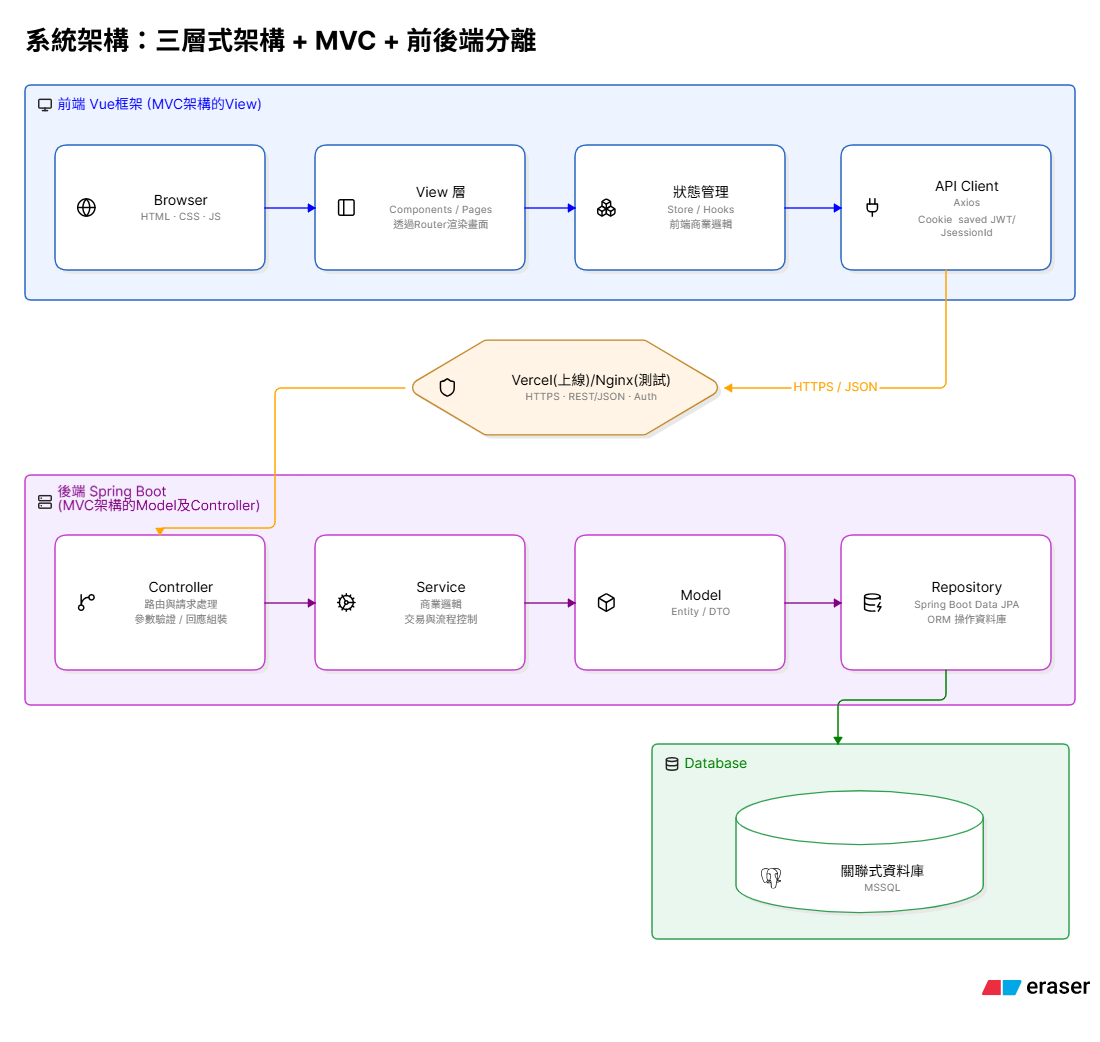
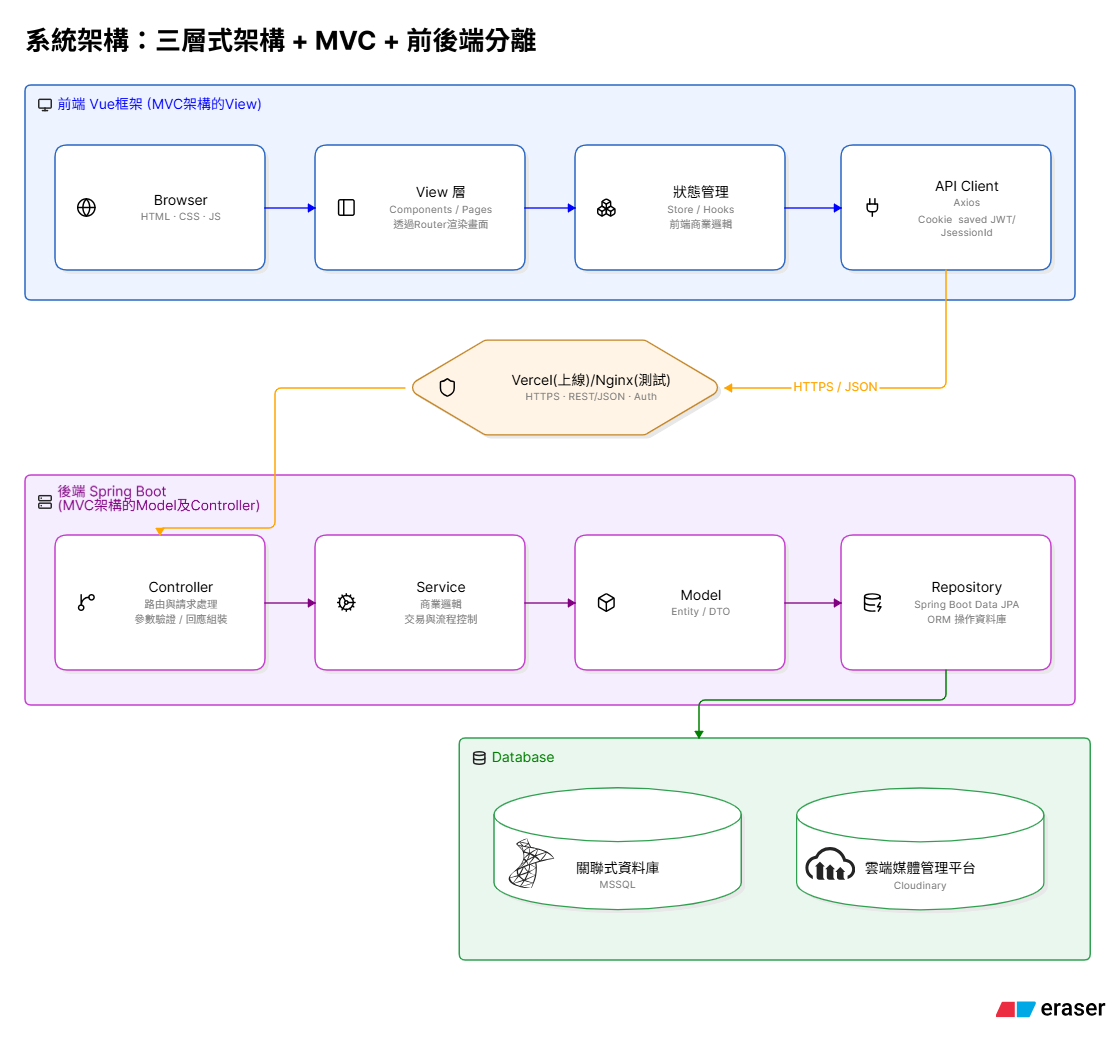
README.md和流程介紹圖修改成最新版

diff --git a/README.md b/README.md
@@ -59,11 +59,12 @@ Gigafix 是前後端分離的三層式架構：前端 SPA 透過 REST API 呼叫
 - **前端**：Vue 3.5、Vite 8、Pinia、Vue Router、Bootstrap 5
 - **後端**：Java 21、Spring Boot 4.1、Spring Data JPA、Spring Security、JWT
 - **資料庫**：Microsoft SQL Server 2022（本機開發用 Docker 容器）、Azure SQL Database（正式環境，使用微軟的Azure租SQL服務）
+- **快取**：Caffeine（後端本機記憶體快取）
 - **Web Server**：Nginx（僅本機 Docker Compose 環境使用，提供前端靜態頁面並反向代理 `/api/*` 到後端；正式環境前端改由 Vercel 直接服務，不會用到這個 Nginx image）
 - **CI/CD**：Jenkins（後端 build image、push 到 DockerHub，人工確認後部署到 Azure）、Vercel（前端 GitHub 自動 build/deploy）
 - **容器化**：Docker、Docker Compose、DockerHub（image 倉庫）
 - **雲端部署**：Vercel（前端 Hosting）、Azure Container Apps（後端）、Azure SQL Database（資料庫）
-- **其他API串接**：reCAPTCHA、Google Client(後端)/Google-login(前端)、jjwt、echarts、bootstrap/bootstrap-icon、taiwan-atlas
+- **其他API串接**：reCAPTCHA、Google 一鍵登入（Google Client 後端/Google-login 前端）、Cloudinary（圖片上傳/管理）、Spring Mail（寄送 Email 通知，如 OTP、忘記密碼、訂單/維修/回收通知）、jjwt、echarts、bootstrap/bootstrap-icon、taiwan-atlas
 - **版本控制**：Git、GitHub
 
 ## 系統需求
